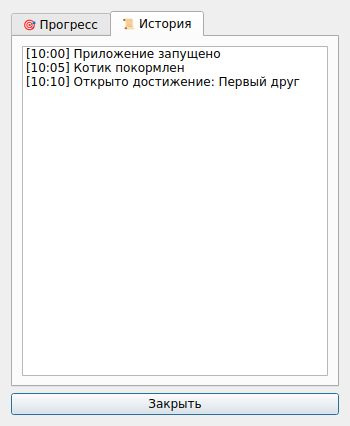
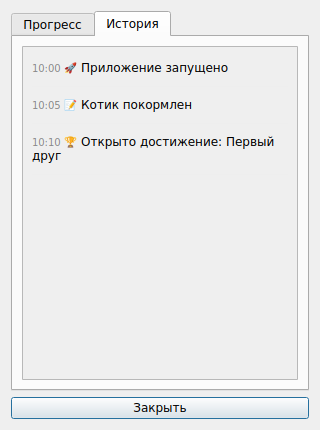
✨ Complete: Performance optimizations and UI/UX enhancements
- ⚡ Perf: Implemented dynamic FPS in AnimationManager (4-20 FPS based on state)
- 🎨 UI/UX: Added progress bars for achievements in StatsDialog
- 🎯 Logic: Refined petting mechanic to require active mouse movement
- 🧹 Clean-up: Removed redundant logging and deprecated flush methods
- ⚙ Maintenance: Centralized skin management in bonding_utils.py

Changed region(s): [[0.0312, 0.0305, 0.9688, 0.9765]]

diff --git a/src/core/input_manager.py b/src/core/input_manager.py
@@ -1,4 +1,5 @@
 import time
+import math
 from pynput import mouse, keyboard
 from PySide6.QtCore import QObject, Signal, QThread, QTimer, Qt
 from src.utils.bonding_utils import get_level, check_achievements, ACHIEVEMENTS
@@ -61,6 +62,11 @@ class InputManager(QObject):
         self.last_input_time = time.time()
         self.last_purr_time = 0
         self.laser_mode = False
+
+        # Данные для логики поглаживания
+        self.petting_last_pos = (0, 0)
+        self.petting_total_dist = 0
+        self.petting_last_increment_time = 0
 
         self.monitor.key_pressed.connect(self.handle_key)
         self.monitor.mouse_moved.connect(self.handle_mouse)
@@ -165,23 +171,18 @@ class InputManager(QObject):
 
         # Сохраняем в БД только когда накопилось 10 очков (примерно каждые 10 сек активной работы)
         if self.pending_points >= 10:
-            self.flush_points()
+            self.flush_all()
 
         # Проверка уровня (визуально можно чаще, используя буферизованные очки)
         virtual_total = self.last_affection_points + self.pending_points
         new_level = get_level(virtual_total)
 
         if new_level > old_level:
-            self.flush_points() # Обязательно сбрасываем перед уведомлением
-            self.db.log_event("level_up", f"Новый уровень: {new_level}")
+            self.flush_all() # Обязательно сбрасываем перед уведомлением
             self.window.show_message(f"Уровень дружбы повышен: {new_level} ❤")
             self.window.sound_manager.play_sound("happy")
             self.db.log_event("level_up", f"Уровень повышен до {new_level}")
             self.check_for_achievements()
-
-    def flush_points(self):
-        """Устарело: используйте flush_all"""
-        self.flush_all()
 
     def flush_all(self):
         """Записывает все накопленные данные (очки и статистику) в базу данных."""
@@ -252,7 +253,6 @@ class InputManager(QObject):
                     self.unlocked_achievements.append(ach_id)
                     self.db.add_achievement(ach_id)
                     ach = ACHIEVEMENTS[ach_id]
-                    self.db.log_event("achievement", f"Получено достижение: {ach['title']}")
                     self.window.show_message(f"Достижение: {ach['icon']} {ach['title']}", duration=5000)
                     self.window.sound_manager.play_sound("happy")
                     self.db.log_event("achievement", f"Разблокировано: {ach['title']}")
@@ -334,14 +334,34 @@ class InputManager(QObject):
 
         # Оптимизация: сравнение квадрата расстояния (порог 60px -> 3600)
         if dist_sq_pet < 3600:
-            if self.window.animation_manager.current_state not in ["playing", "hunting", "shaking"]:
-                 self.window.animation_manager.play_state("playing")
-                 self.pending_stats["petting_count"] += 1
-                 if self.pending_stats["petting_count"] % 5 == 0:
-                     self.check_for_achievements()
-                 if now - self.last_purr_time > 2.0:
-                     self.window.sound_manager.play_sound("purr")
-                     self.last_purr_time = now
+            if self.window.animation_manager.current_state not in ["playing", "hunting", "shaking", "sleeping"]:
+                 if self.window.animation_manager.current_state != "playing":
+                    self.window.animation_manager.play_state("playing")
+
+                 # Улучшенная логика: считаем поглаживание только при движении мыши над котиком
+                 if self.petting_last_pos != (0, 0):
+                    pdx = x - self.petting_last_pos[0]
+                    pdy = y - self.petting_last_pos[1]
+                    self.petting_total_dist += math.sqrt(pdx*pdx + pdy*pdy)
+
+                 self.petting_last_pos = (x, y)
+
+                 # Если протащили мышь на 30 пикселей и прошло 500мс с прошлого раза
+                 if self.petting_total_dist > 30 and (now - self.petting_last_increment_time) > 0.5:
+                    self.pending_stats["petting_count"] += 1
+                    self.petting_total_dist = 0
+                    self.petting_last_increment_time = now
+
+                    if self.pending_stats["petting_count"] % 5 == 0:
+                        self.check_for_achievements()
+
+                    if now - self.last_purr_time > 2.0:
+                        self.window.sound_manager.play_sound("purr")
+                        self.last_purr_time = now
+        else:
+            # Сброс данных поглаживания при выходе курсора за пределы котика
+            self.petting_last_pos = (0, 0)
+            self.petting_total_dist = 0
 
     def toggle_laser_mode(self):
         self.laser_mode = not self.laser_mode

diff --git a/src/ui/stats_dialog.py b/src/ui/stats_dialog.py
@@ -88,8 +88,10 @@ class StatsDialog(QDialog):
             ach_item_layout.addWidget(item_label)
 
             # Расчет прогресса
-            progress_text = ""
-            if not is_unlocked and 'goal' in ach_info and 'stat' in ach_info:
+            current_val = 0
+            goal = ach_info.get('goal', 1)
+
+            if 'stat' in ach_info:
                 if self.parent() and hasattr(self.parent(), 'input_manager') and self.parent().input_manager:
                     im = self.parent().input_manager
                     if ach_info['stat'] == 'bonding_points':
@@ -98,22 +100,46 @@ class StatsDialog(QDialog):
                         current_val = im.total_clicks_cache + im.pending_stats.get('total_clicks', 0)
                     elif ach_info['stat'] == 'max_kps':
                         current_val = im.max_kps
+                    elif ach_info['stat'] == 'level':
+                         current_val, _, _, _ = get_level_info(im.last_affection_points + im.pending_points)
                     else:
                         current_val = self.db.get_stat(ach_info['stat']) + im.pending_stats.get(ach_info['stat'], 0)
                 else:
-                    current_val = self.db.get_stat(ach_info['stat'])
+                    if ach_info['stat'] == 'level':
+                        current_val, _, _, _ = get_level_info(points)
+                    else:
+                        current_val = self.db.get_stat(ach_info['stat'])
 
-                if ach_info['stat'] == 'level':
-                    current_val, _, _, _ = get_level_info(points)
+            info_container = QWidget()
+            info_v_layout = QVBoxLayout(info_container)
+            info_v_layout.setContentsMargins(0, 0, 0, 0)
+            info_v_layout.setSpacing(2)
 
-                goal = ach_info['goal']
-                if goal > 0:
-                    progress_text = f" <span style='color: #888;'>({current_val}/{goal})</span>"
-
-            info_label = QLabel(f"<b>{ach_info['title']}</b>{progress_text}<br/><small>{ach_info['desc']}</small>")
+            info_label = QLabel(f"<b>{ach_info['title']}</b><br/><small>{ach_info['desc']}</small>")
             if not is_unlocked:
                 info_label.setStyleSheet("color: #888;")
-            ach_item_layout.addWidget(info_label)
+            info_v_layout.addWidget(info_label)
+
+            if not is_unlocked:
+                progress_bar = QProgressBar()
+                progress_bar.setFixedHeight(8)
+                progress_bar.setTextVisible(False)
+                progress_bar.setMaximum(goal)
+                progress_bar.setValue(min(current_val, goal))
+                progress_bar.setStyleSheet("""
+                    QProgressBar {
+                        border: 1px solid #ddd;
+                        border-radius: 4px;
+                        background-color: #f0f0f0;
+                    }
+                    QProgressBar::chunk {
+                        background-color: #4CAF50;
+                        border-radius: 3px;
+                    }
+                """)
+                info_v_layout.addWidget(progress_bar)
+
+            ach_item_layout.addWidget(info_container)
             ach_item_layout.addStretch()
 
             scroll_layout.addWidget(ach_widget)

diff --git a/src/ui/tray_menu.py b/src/ui/tray_menu.py
@@ -5,6 +5,7 @@ from PySide6.QtCore import QObject
 from src.utils.paths import TRAY_ICON_PATH, get_animation_path
 from src.ui.settings_dialog import SettingsDialog
 from src.ui.stats_dialog import StatsDialog
+from src.utils.bonding_utils import CAT_SKINS
 
 class TrayMenu(QObject):
     def __init__(self, pet_window):
@@ -50,18 +51,7 @@ class TrayMenu(QObject):
 
         # Выбор скина
         skin_menu = QMenu("Выбрать окрас", self.menu)
-        skins = {
-            "Стандартный": "default",
-            "Рыжий": "orange",
-            "Сиамский": "siamese",
-            "Бежевый": "ginger",
-            "Розовый": "pink",
-            "Белый": "white",
-            "Серый": "gray",
-            "Трехцветный": "calico",
-            "Черный": "black"
-        }
-        for name, skin_id in skins.items():
+        for skin_id, name in CAT_SKINS.items():
             action = QAction(name, self)
             action.triggered.connect(lambda checked=False, sid=skin_id: self.window.animation_manager.set_skin(sid))
             skin_menu.addAction(action)
@@ -118,19 +108,15 @@ class TrayMenu(QObject):
         if self.window.timer_system:
             self.window.timer_system.start_pomodoro("work")
             if self.window.input_manager and self.window.input_manager.db:
-                self.window.input_manager.db.log_event("pomodoro_start", "Начало работы")
-            self.window.show_message("Пора работать! 🛠")
-            if self.window.input_manager and self.window.input_manager.db:
                 self.window.input_manager.db.log_event("pomodoro_start", "Начата сессия работы")
+            self.window.show_message("Пора работать! 🛠")
 
     def start_break_timer(self, checked=False):
         if self.window.timer_system:
             self.window.timer_system.start_pomodoro("break")
             if self.window.input_manager and self.window.input_manager.db:
-                self.window.input_manager.db.log_event("pomodoro_start", "Перерыв")
-            self.window.show_message("Отдыхаем! ☕")
-            if self.window.input_manager and self.window.input_manager.db:
                 self.window.input_manager.db.log_event("pomodoro_start", "Начата сессия отдыха")
+            self.window.show_message("Отдыхаем! ☕")
 
     def show_settings(self, checked=False):
         dialog = SettingsDialog(self.window.config, self.window)
@@ -157,8 +143,6 @@ class TrayMenu(QObject):
             self.window.input_manager.add_points(5)
             self.window.show_message("Мням! +5 ❤")
             self.window.input_manager.pending_stats["total_feedings"] += 1
-            if self.window.input_manager.db:
-                self.window.input_manager.db.log_event("feeding", "Котик покормлен")
             self.window.input_manager.check_for_achievements()
 
     def toggle_laser(self, checked):

diff --git a/src/ui/settings_dialog.py b/src/ui/settings_dialog.py
@@ -1,5 +1,6 @@
 from PySide6.QtWidgets import QDialog, QVBoxLayout, QHBoxLayout, QLabel, QLineEdit, QSlider, QComboBox, QPushButton, QSpinBox
 from PySide6.QtCore import Qt
+from src.utils.bonding_utils import CAT_SKINS
 
 class SettingsDialog(QDialog):
     def __init__(self, config, parent=None):
@@ -45,9 +46,15 @@ class SettingsDialog(QDialog):
         # Выбор скина
         layout.addWidget(QLabel("Окрас котика:"))
         self.skin_combo = QComboBox()
-        skins = ["default", "orange", "siamese", "ginger", "pink", "white", "gray", "calico", "black"]
-        self.skin_combo.addItems(skins)
-        self.skin_combo.setCurrentText(self.config.get("skin"))
+        for skin_id, name in CAT_SKINS.items():
+            self.skin_combo.addItem(name, skin_id)
+
+        # Установка текущего значения
+        current_skin = self.config.get("skin")
+        index = self.skin_combo.findData(current_skin)
+        if index >= 0:
+            self.skin_combo.setCurrentIndex(index)
+
         layout.addWidget(self.skin_combo)
 
         # Кнопки
@@ -67,5 +74,5 @@ class SettingsDialog(QDialog):
         self.config.set("stretch_interval", self.stretch_spin.value())
         self.config.set("pomodoro_work", self.pomodoro_work_spin.value())
         self.config.set("pomodoro_break", self.pomodoro_break_spin.value())
-        self.config.set("skin", self.skin_combo.currentText())
+        self.config.set("skin", self.skin_combo.currentData())
         self.accept()

diff --git a/src/core/animation_manager.py b/src/core/animation_manager.py
@@ -23,6 +23,7 @@ class AnimationManager:
         self.cached_pixmap = None
         self.last_size = QSize(0, 0)
         self.main_window = self.label.window()
+        self.current_fps = 12
 
         # Таймер для процедурной SVG анимации
         self.anim_timer = QTimer()
@@ -53,7 +54,7 @@ class AnimationManager:
             self.movie.start()
         elif path.endswith(".svg"):
             self.svg_renderer = QSvgRenderer(path)
-            self.anim_timer.start(1000 // 12) # 12 FPS
+            self.anim_timer.start(1000 // self.current_fps)
         else:
             # Статическая картинка (скин)
             pixmap = QPixmap(path)
@@ -154,6 +155,17 @@ class AnimationManager:
             return
 
         self.current_state = state
+
+        # Динамический FPS в зависимости от состояния
+        if state == "sleeping":
+            self.current_fps = 4
+        elif state in ["overheat", "shaking"]:
+            self.current_fps = 20
+        else:
+            self.current_fps = 12
+
+        if self.anim_timer.isActive():
+            self.anim_timer.setInterval(1000 // self.current_fps)
 
         # Если выбран скин, пробуем загрузить его SVG версию
         if self.skin != "default":

diff --git a/src/utils/bonding_utils.py b/src/utils/bonding_utils.py
@@ -41,6 +41,18 @@ def get_level(points):
     level, _, _, _ = get_level_info(points)
     return level
 
+CAT_SKINS = {
+    "default": "Стандартный",
+    "orange": "Рыжий",
+    "siamese": "Сиамский",
+    "ginger": "Бежевый",
+    "pink": "Розовый",
+    "white": "Белый",
+    "gray": "Серый",
+    "calico": "Трехцветный",
+    "black": "Черный"
+}
+
 ACHIEVEMENTS = {
     "first_friend": {"title": "Первый друг", "desc": "Достигните 1 уровня привязанности", "icon": "❤", "goal": 1, "stat": "level"},
     "worker": {"title": "Трудоголик", "desc": "Проведите 10 минут в режиме работы", "icon": "🛠", "goal": 600, "stat": "work_seconds"},
